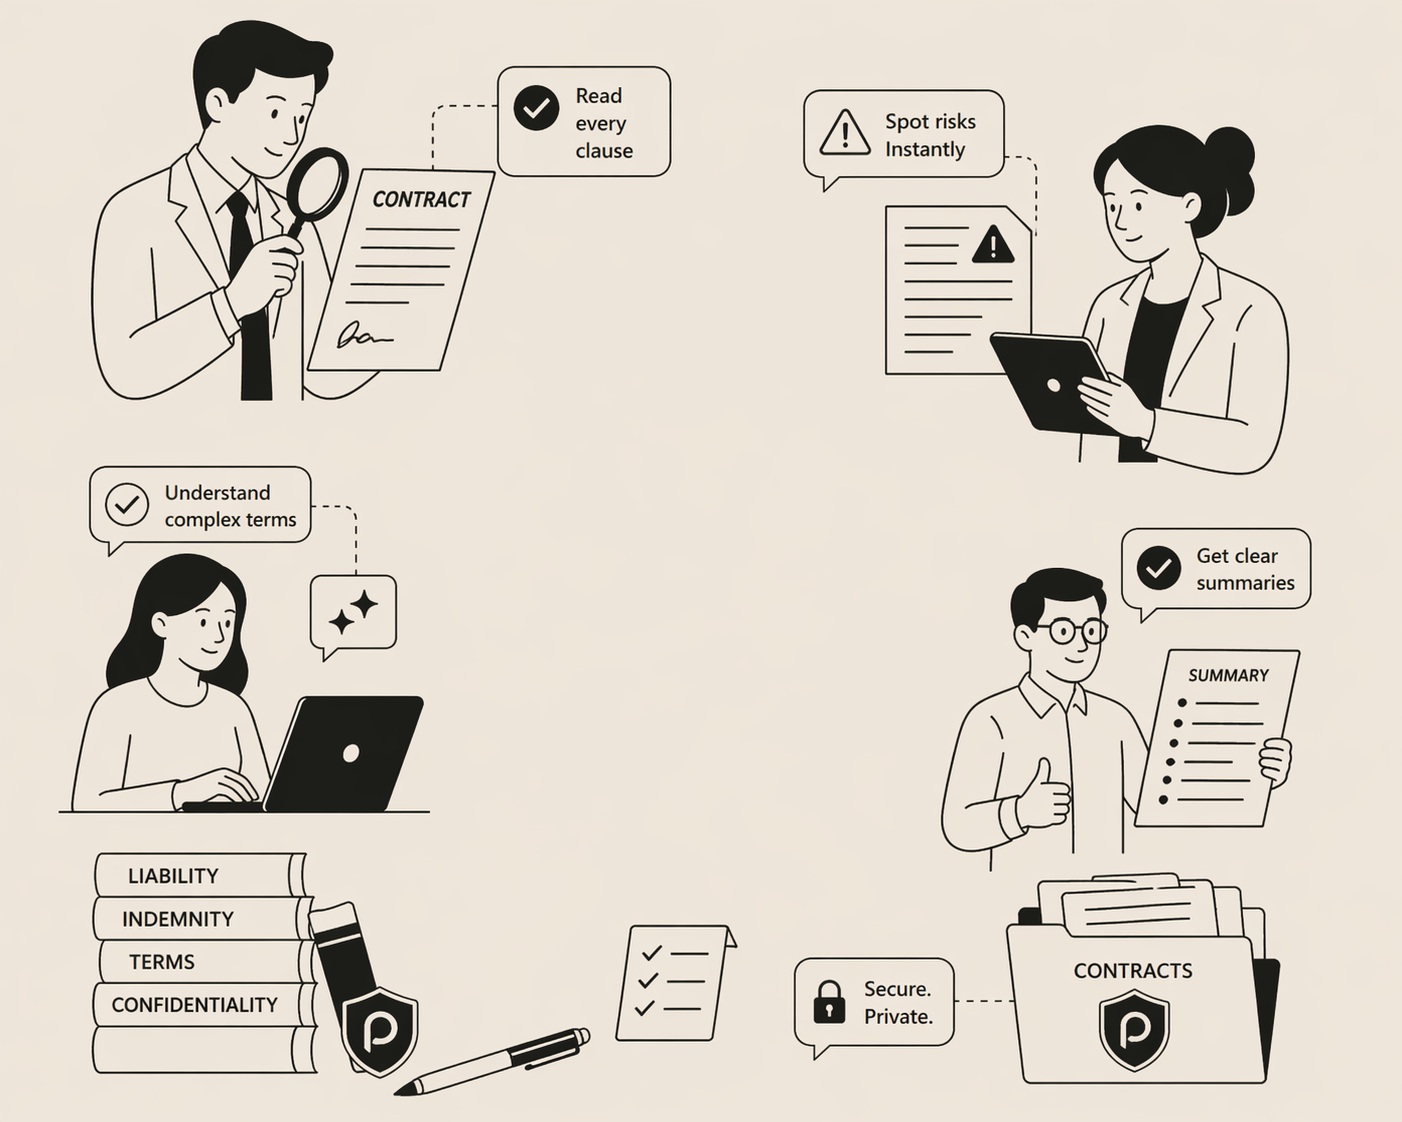
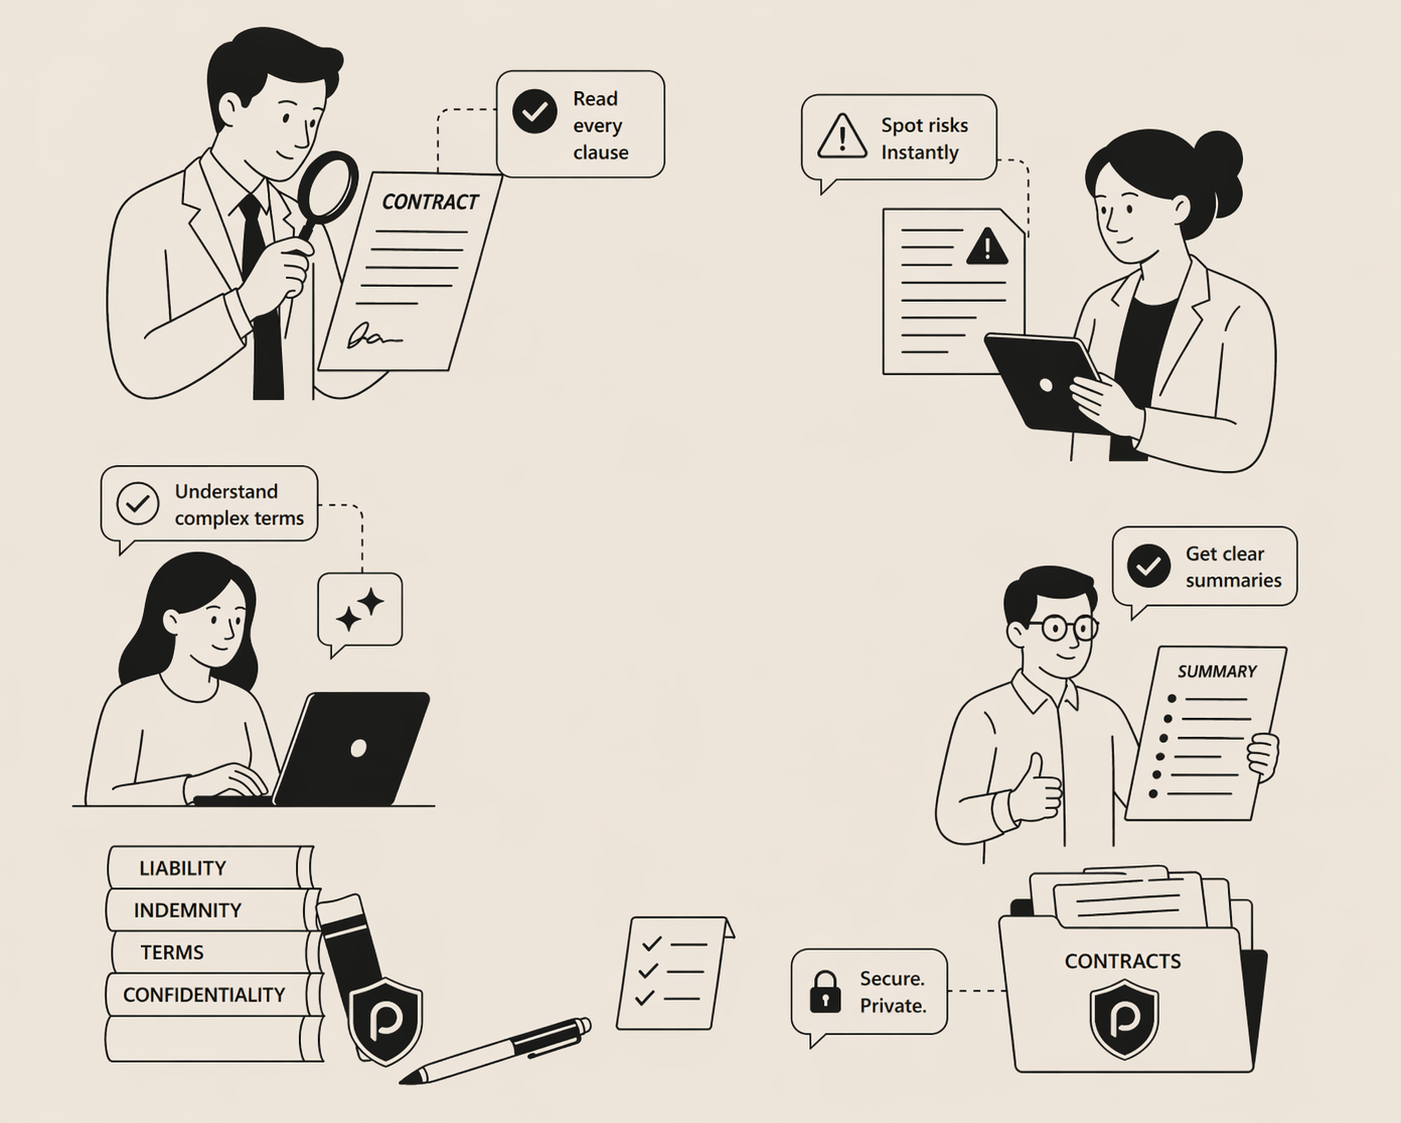
chore(ui): refresh hero illustration asset, bump cache version
User replaced hero-illustration.png with a version whose background
matches the page's beige tone. Added ?v=2 cache bust to the Image
src so browsers and Next's optimizer pick up the new asset instead
of a cached copy of the old PNG.

New PNG dimensions differ by 1px on each axis (1401x1123 vs 1402x1122);
updated the width/height props on next/image to match exactly so the
reserved aspect-ratio box stays pixel-accurate and avoids any layout
shift on load.

No dropzone color override to revert — the previous color-match prompt
wasn't run, so bg-beige-50 is already in place.

diff --git a/apps/web/components/PactSafeLanding.tsx b/apps/web/components/PactSafeLanding.tsx
@@ -356,10 +356,13 @@ function HeroVisual() {
 function HeroIllustration() {
   return (
     <Image
-      src="/hero-illustration.png"
+      // ?v=N cache-bust: bump the integer whenever the PNG is
+      // replaced so browsers and Next's image optimizer treat it as a
+      // new asset and don't serve a stale cached copy.
+      src="/hero-illustration.png?v=2"
       alt=""
-      width={1402}
-      height={1122}
+      width={1401}
+      height={1123}
       aria-hidden="true"
       className="w-[120%] h-auto max-w-none object-contain -mx-[10%]"
       priority
